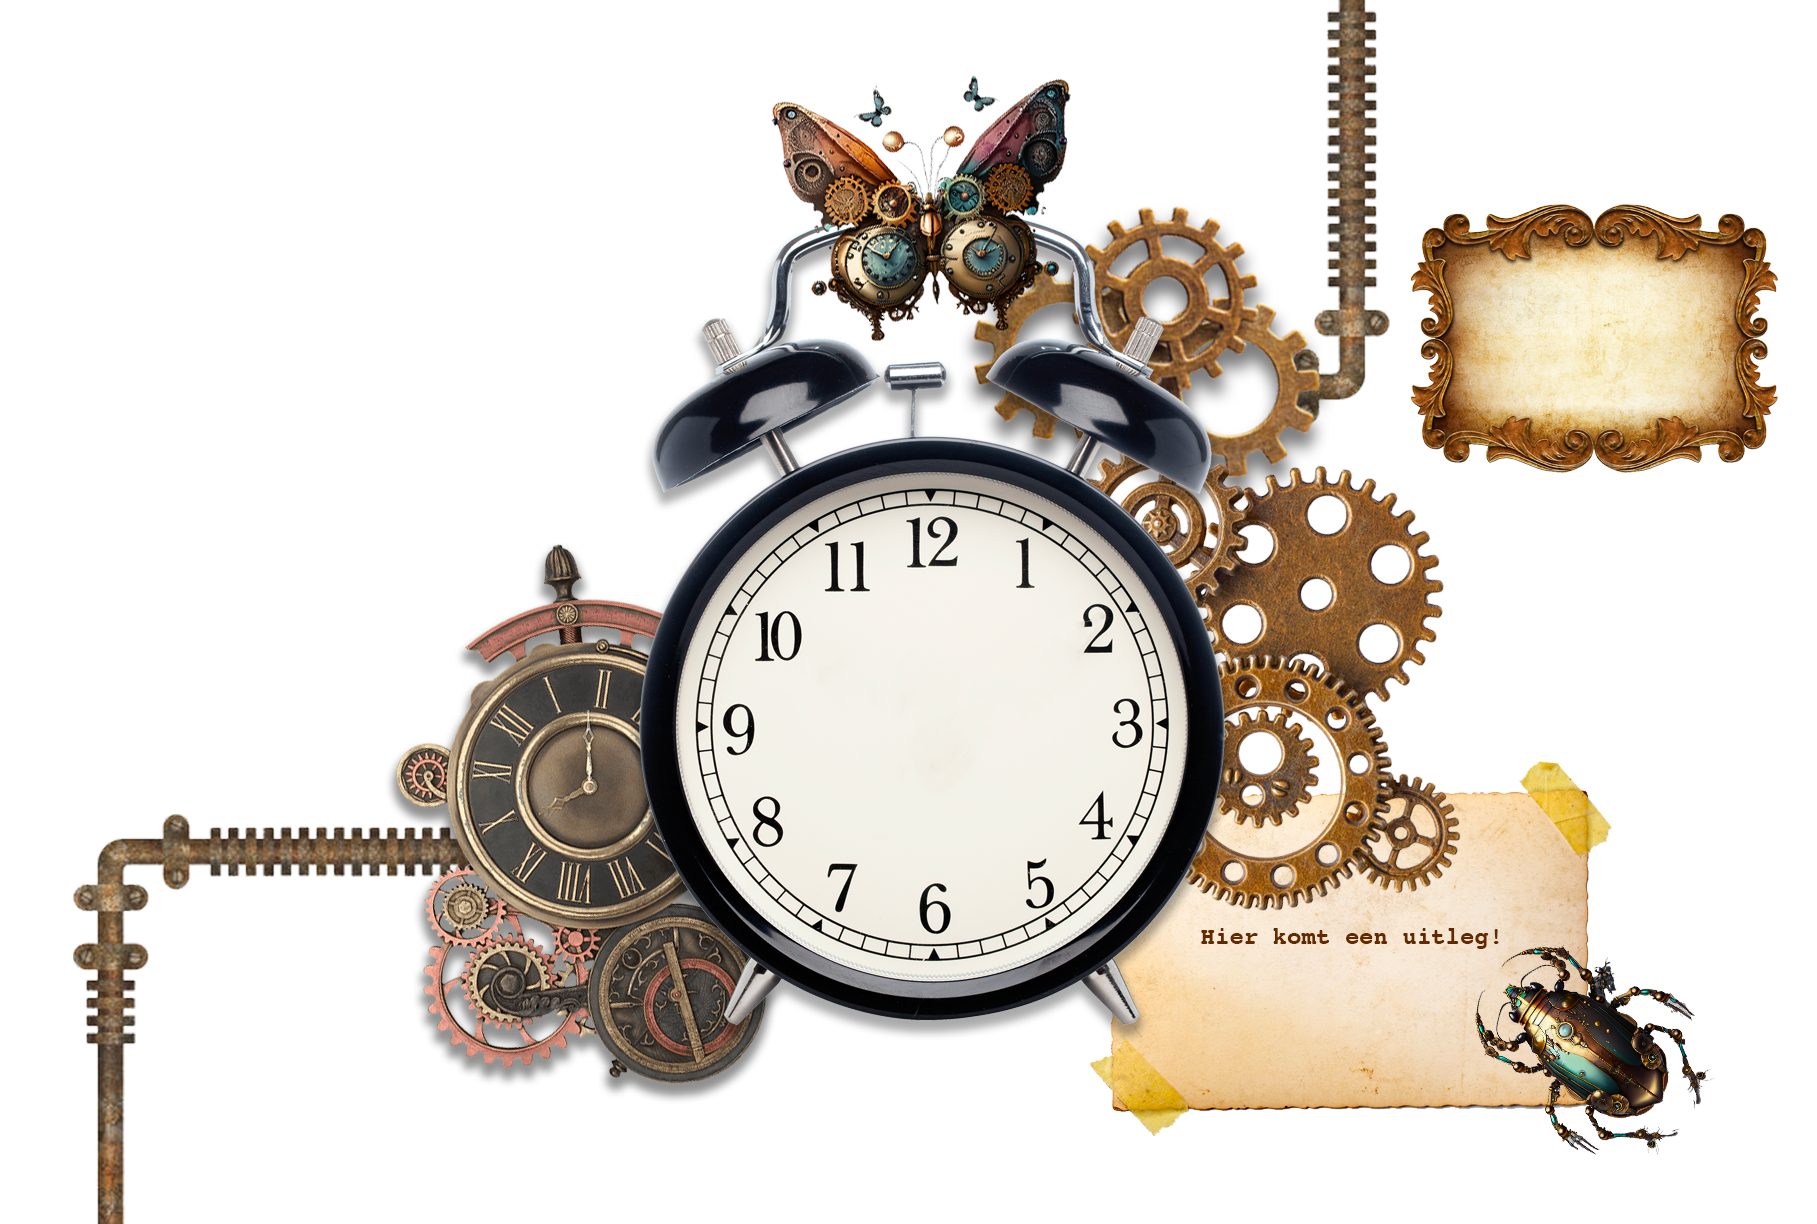
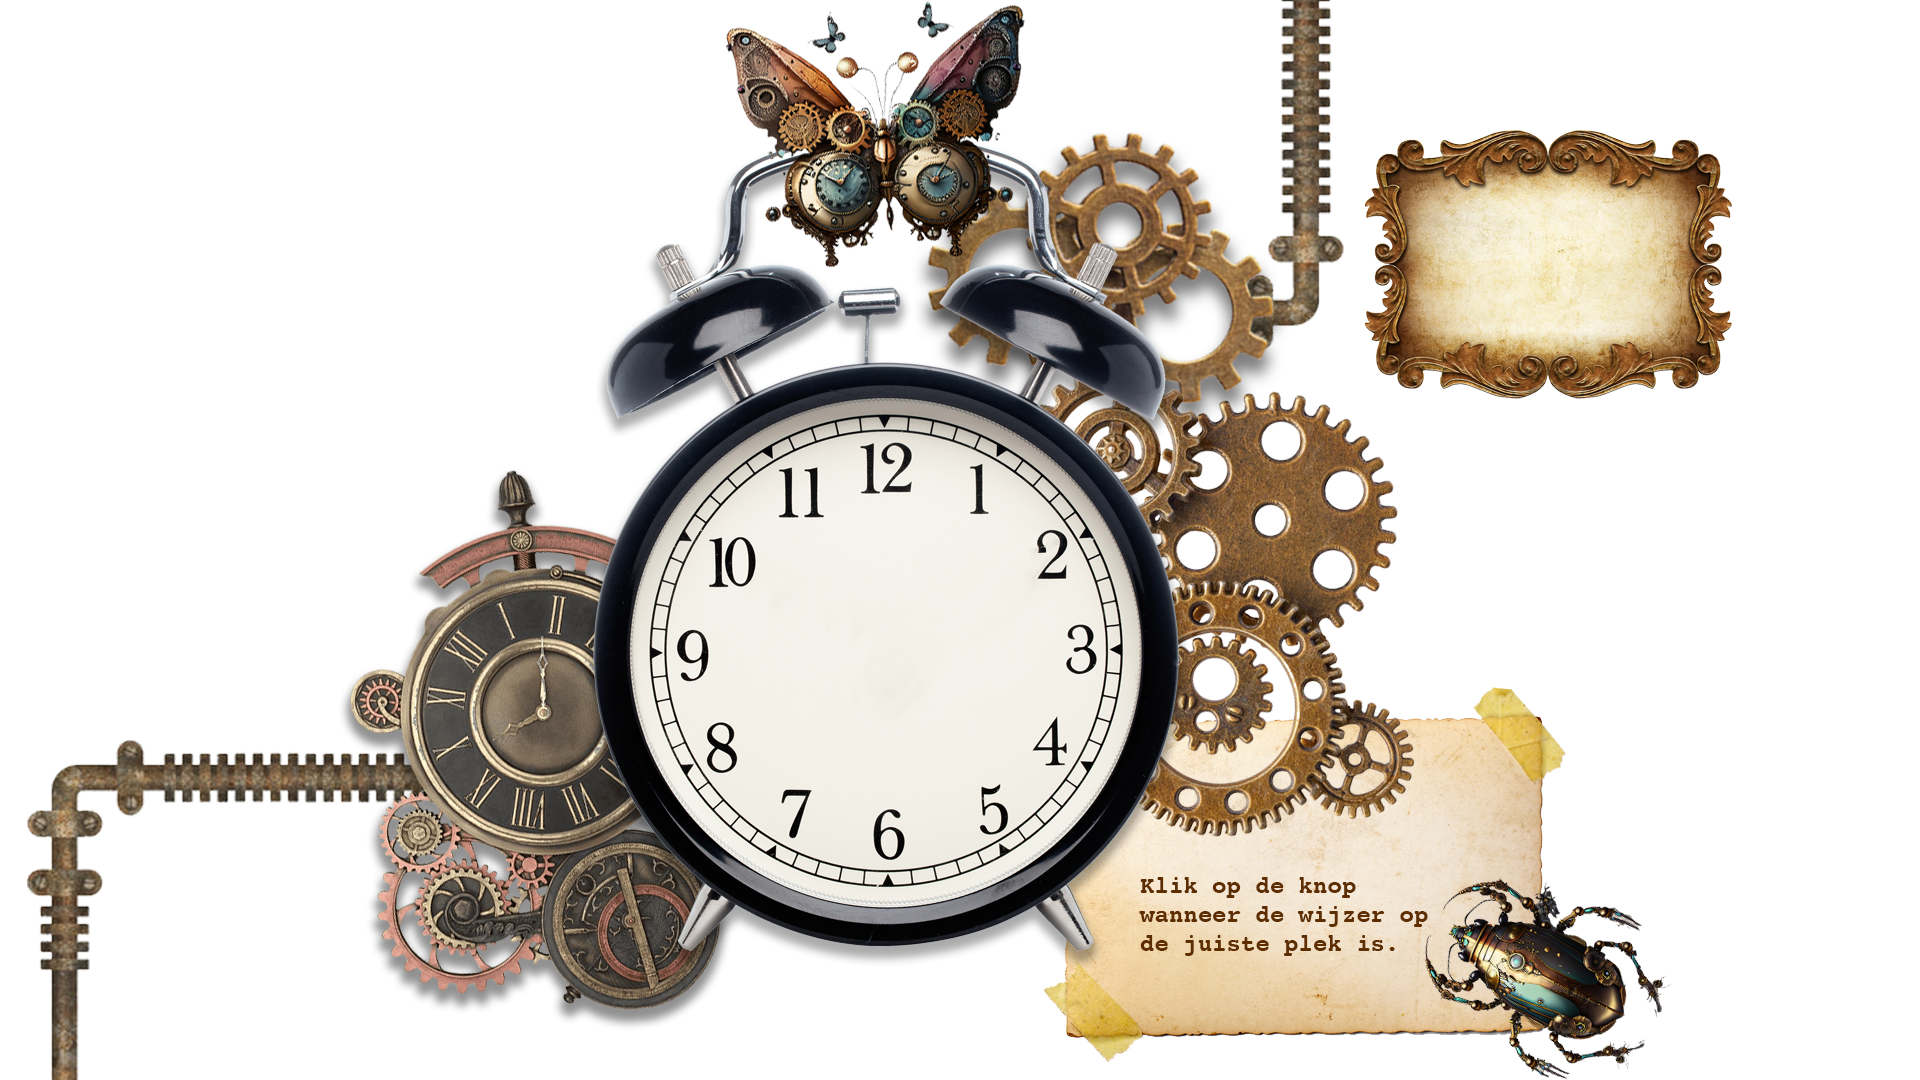
extra gear on home page and updated clock game image

diff --git a/src/Start.scss b/src/Start.scss
@@ -27,8 +27,21 @@
       cursor: pointer;
       background-color: #876b59;
       box-shadow: 4px 4px 4px black;
+      animation: jiggle 0.55s ease-in 1;
     }
   }
+}
+
+// Jiggle Keyframes
+@keyframes jiggle {
+  20% {
+     transform: translateY(-13%); }
+  40% {
+     transform: translateY(13%); }
+  60% {
+     transform: translateY(-7%); }
+  80% {
+     transform: translateY(7%); }
 }
 
 .start-screen__time__container {
@@ -37,7 +50,7 @@
   width: 383px;
   position: absolute;
   top: 11vh;
-  left: 43vw;
+  left: 40vw;
 
   .start-screen__time {
     color: #40210d;
@@ -58,6 +71,7 @@
   animation: rotating 10s infinite linear;
 }
 
+
 @keyframes rotating {
 	0% {
 		transform: rotate(0deg);
@@ -67,5 +81,30 @@
 	}
 	100% {
 		transform: rotate(360deg);
+	}
+}
+
+.start-screen__gear-2 {
+  background-image: url("/src/assets/Start/start-screen-GEAR.png");
+  width: 150px;
+  height: 150px;
+  background-size: contain;
+  position: absolute;
+  top: 63vh;
+  left: 3.3vw;
+  animation: rotating 5s infinite linear;
+  animation-direction: reverse;
+}
+
+
+@keyframes rotating-2 {
+	0% {
+		transform: rotate(360deg);
+  }
+  50% {
+		transform: rotate(180deg);
+	}
+	100% {
+		transform: rotate(0deg);
 	}
 }

diff --git a/src/Start.tsx b/src/Start.tsx
@@ -16,6 +16,8 @@ export function Start(props: { advance: () => void }) {
             <h1 className='start-screen__time'>{date.toLocaleTimeString()}</h1>
         </header>
         <div className="start-screen__gear rotating"></div>
+        <div className="start-screen__gear-2 rotating-2"></div>
+
         <div className='test'>
             <Button onClick={props.advance}>Blow my mind 🤯</Button>
         </div>
